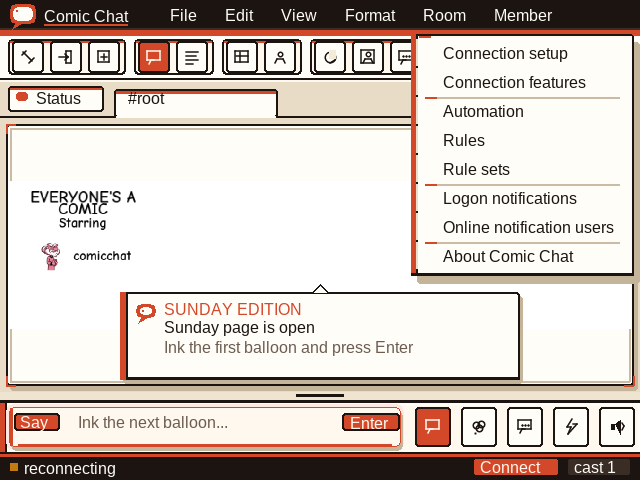
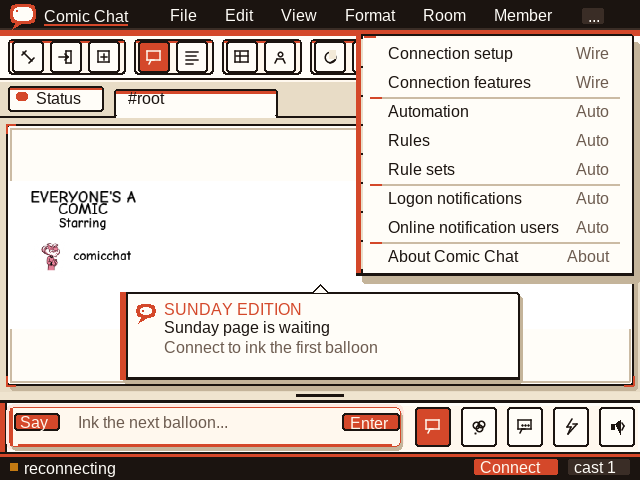
ui: refresh previews after connection-aware chrome
Regenerate dark, compact-menu, and context render-ui shots for waiting
empty copy, menu hints, and the Connect chip. Shorten empty CAST playbill
so the rail can hold the line.

diff --git a/.ai/tasks/CC-20260824-05.md b/.ai/tasks/CC-20260824-05.md
@@ -29,12 +29,12 @@ composer, empty states, and connection. Do not restyle CAST/bodycam crop.
 
 ## Acceptance criteria
 
-- [ ] Menus show hints, disabled plates, and overflow; popups stay reachable
-- [ ] Settings prefill from live appearance/shell; accent hint names Cobalt
-- [ ] Composer and connection chrome stay readable when empty or offline
-- [ ] Empty page/CAST copy reacts to connection tone
-- [ ] No CAST/bodycam crop or blit-size changes
-- [ ] Tests green; committed preview PNGs refreshed
+- [x] Menus show hints, disabled plates, and overflow; popups stay reachable
+- [x] Settings prefill from live appearance/shell; accent hint names Cobalt
+- [x] Composer and connection chrome stay readable when empty or offline
+- [x] Empty page/CAST copy reacts to connection tone
+- [x] No CAST/bodycam crop or blit-size changes
+- [x] Tests green; committed preview PNGs refreshed
 
 ## Verification
 
@@ -51,8 +51,8 @@ composer, empty states, and connection. Do not restyle CAST/bodycam crop.
 
 ## Handoff
 
-- Files changed:
-- Commands and outcomes:
-- Evidence:
-- Residual risk:
+- Files changed: `src/client/ui.zig`, `src/client/view.zig`, `src/client/dialogs.zig`, committed `ui-*-preview.png`
+- Commands and outcomes: `zig build test` 460 pass / 1 skip + 12 main; `zig build -Dtarget=x86_64-linux`; `git diff --check` clean
+- Evidence: CAST/bodycam blit unchanged; Connect chip, menu hints, waiting empty copy, setup WIRE well
+- Residual risk: Settings still persist `"Cobalt"` for the vermillion accent
 - Recommendation: `accept`
